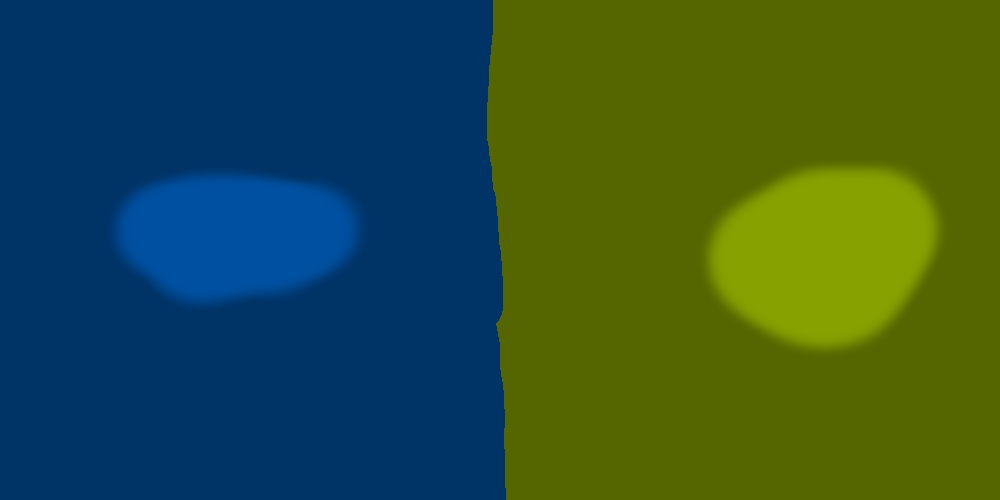
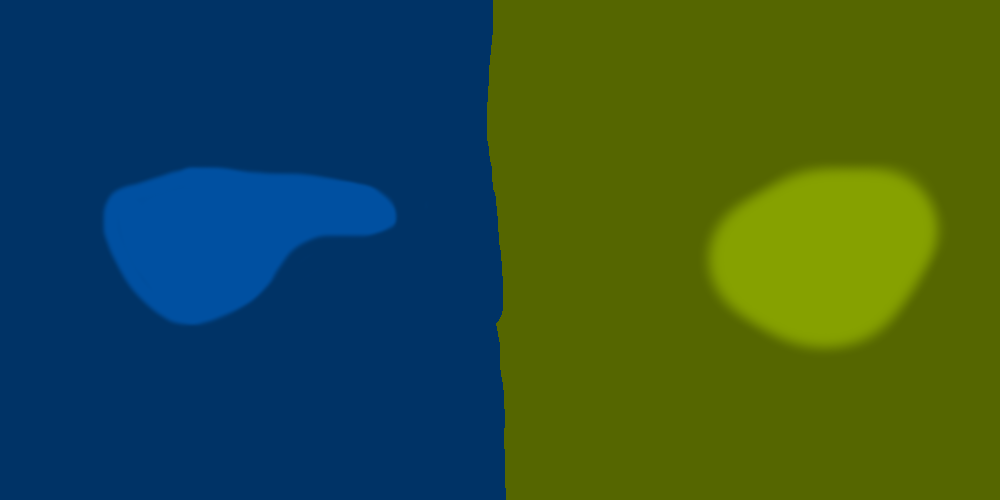
Add "continent buffer" to prevent continent subduction, tweak oceanic ridges
[#150886577]

Changed region(s): [[0.093, 0.33, 0.403, 0.66]]

diff --git a/js/plates-model/field.js b/js/plates-model/field.js
@@ -8,7 +8,8 @@ import VolcanicActivity from './volcanic-activity'
 import { basicDrag, orogenicDrag } from './physics/forces'
 import { serialize, deserialize } from '../utils'
 
-export const MAX_AGE = 0.03
+// Max age of the field defines how fast the new oceanic crust cools down and goes from ridge elevation to its base elevation.
+export const MAX_AGE = config.oceanicRidgeWidth / c.earthRadius
 // When a continent is splitting apart along divergent boundary, its crust will get thinner and thinner
 // until it reaches this value. Then the oceanic crust will be formed instead.
 export const MIN_CONTINENTAL_CRUST_THICKNESS = 0.45
@@ -37,7 +38,6 @@ export default class Field extends FieldBase {
     this.baseElevation = elevation || ELEVATION[type]
     this.baseCrustThickness = crustThickness || CRUST_THICKNESS[type]
 
-    this.island = false
     this.orogeny = null
     this.volcanicAct = null
     this.subduction = null
@@ -48,10 +48,14 @@ export default class Field extends FieldBase {
     // Physics properties:
     this.mass = this.area * MASS_MODIFIER * (this.isOcean ? config.oceanDensity : config.continentDensity)
     this.draggingPlate = null
+
+    // Properties that are (re)calculates in each step. They don't need to be serialized:
+    this.island = false
+    this.isContinentBuffer = false
   }
 
   get serializableProps () {
-    return [ 'id', 'boundary', 'age', 'isOcean', 'baseElevation', 'baseCrustThickness', 'island', 'noCollisionDist', 'mass' ]
+    return [ 'id', 'boundary', 'age', 'isOcean', 'baseElevation', 'baseCrustThickness', 'noCollisionDist', 'mass' ]
   }
 
   serialize () {
@@ -238,10 +242,14 @@ export default class Field extends FieldBase {
       return
     }
 
-    // Higher density plates subduct
     if (this.isOcean && this.density > field.density) {
+      // Higher density plates subduct.
       if (!this.subduction) {
         this.subduction = new Subduction(this)
+      }
+      if (this.isContinentBuffer && field.isOcean) {
+        // Special case when the continent is "trying" to subduct under the ocean. Apply drag force to stop both plates.
+        this.draggingPlate = field.plate
       }
       this.subduction.setCollision(field)
     } else if (this.island && this.density > field.density) {
@@ -251,6 +259,10 @@ export default class Field extends FieldBase {
         this.volcanicAct = new VolcanicActivity(this)
       }
       this.volcanicAct.setCollision(field)
+      if (this.isOcean && field.isContinentBuffer) {
+        // Special case when the continent is "trying" to subduct under the ocean. Apply drag force to stop both plates.
+        this.draggingPlate = field.plate
+      }
     } else if (this.isContinent && field.isContinent && !field.island) {
       this.draggingPlate = field.plate
       if (!this.orogeny) {
@@ -259,7 +271,7 @@ export default class Field extends FieldBase {
       this.orogeny.setCollision(field)
     } else if ((this.isContinent && !this.island && field.isOcean && this.density > field.density) ||
                (this.isOcean && field.isContinent && !field.island && this.density <= field.density)) {
-      // Special case when ocean "should" go over the continent. Apply drag force to stop both plates.
+      // Special case when the continent is "trying" to subduct under the ocean. Apply drag force to stop both plates.
       this.draggingPlate = field.plate
     }
   }

diff --git a/js/plates-view/render-cross-section.js b/js/plates-view/render-cross-section.js
@@ -64,9 +64,11 @@ function renderChunk (ctx, chunkData) {
     // Top of the crust
     const t1 = new THREE.Vector2(x1, f1.elevation)
     const t2 = new THREE.Vector2(x2, f2.elevation)
+    const tMid = new THREE.Vector2((t1.x + t2.x) / 2, (t1.y + t2.y) / 2)
     // Bottom of the crust, top of the lithosphere
     const c1 = new THREE.Vector2(x1, f1.elevation - f1.crustThickness)
     const c2 = new THREE.Vector2(x2, f2.elevation - f2.crustThickness)
+    const cMid = new THREE.Vector2((c1.x + c2.x) / 2, (c1.y + c2.y) / 2)
     // Bottom of the lithosphere, top of the mantle
     const l1 = new THREE.Vector2(x1, f1.elevation - f1.crustThickness - f1.lithosphereThickness)
     const l2 = new THREE.Vector2(x2, f2.elevation - f2.crustThickness - f2.lithosphereThickness)
@@ -74,7 +76,8 @@ function renderChunk (ctx, chunkData) {
     const b1 = new THREE.Vector2(x1, config.subductionMinElevation)
     const b2 = new THREE.Vector2(x2, config.subductionMinElevation)
     // Fill crust
-    fillPath(ctx, f1.isOcean && f2.isOcean ? OCEANIC_CRUST_COL : CONTINENTAL_CRUST_COL, t1, t2, c2, c1)
+    fillPath(ctx, f1.isOcean ? OCEANIC_CRUST_COL : CONTINENTAL_CRUST_COL, t1, tMid, cMid, c1)
+    fillPath(ctx, f2.isOcean ? OCEANIC_CRUST_COL : CONTINENTAL_CRUST_COL, tMid, t2, c2, cMid)
     // Fill lithosphere
     fillPath(ctx, LITHOSPHERE_COL, c1, c2, l2, l1)
     // Fill mantle

diff --git a/js/plates-model/plate.js b/js/plates-model/plate.js
@@ -185,6 +185,42 @@ export default class Plate extends PlateBase {
     return count
   }
 
+  calculateContinentBuffers () {
+    const queue = []
+    const dist = {}
+    const getDist = field => {
+      const id = field.id
+      if (dist[id] !== undefined) return dist[id]
+      return Infinity
+    }
+
+    this.forEachField(field => {
+      field.isContinentBuffer = false
+      if (field.isContinent && !field.island) {
+        field.forEachNeighbour(adjField => {
+          if (adjField.isOcean && getDist(adjField) > grid.fieldDiameterInKm) {
+            dist[adjField.id] = grid.fieldDiameterInKm
+            queue.push(adjField)
+          }
+        })
+      }
+    })
+
+    while (queue.length > 0) {
+      const field = queue.shift()
+      field.isContinentBuffer = true
+      const newDist = getDist(field) + grid.fieldDiameterInKm
+      if (newDist < config.continentBufferWidth) {
+        field.forEachNeighbour(adjField => {
+          if (adjField.isOcean && getDist(adjField) > newDist) {
+            dist[adjField.id] = newDist
+            queue.push(adjField)
+          }
+        })
+      }
+    }
+  }
+
   markIslands () {
     // DFS-based algorithm which calculates area of continents and mark small ones as islands.
     const stack = []

diff --git a/js/config.js b/js/config.js
@@ -47,10 +47,11 @@ const DEFAULT_CONFIG = {
   // Default range of elevation is [0, 1] (the deepest trench, the highest mountain). However subducting plates go
   // deeper and this variable sets the proportion between this depth and normal topography.
   subductionMinElevation: -3.3,
-  oceanicRidgeElevation: 0.45,
-  // Defines how fast fields are getting from age = 0 (oceanic ridge) to age = 1 (fully "mature" field).
-  // It affects elevation and crust thickness around oceanic ridge.
-  agingSpeed: 0.15,
+  oceanicRidgeElevation: 0.47,
+  oceanicRidgeWidth: 850, // km
+  // Width of the area around continent which acts as it's bumper / buffer. When this area is about to subduct,
+  // drag forces will be applied to stop relative motion of the plates and prevent subduction of the neighbouring continent.
+  continentBufferWidth: 750,
   // Rendering:
   colormap: 'topo', // 'topo' or 'plate'
   // Defines interaction that can be selected using top bar.

diff --git a/js/plates-model/grid.js b/js/plates-model/grid.js
@@ -3,6 +3,7 @@ import config from '../config'
 import VoronoiSphere from './voronoi-sphere'
 import { toCartesian } from '../geo-utils'
 import { kdTree } from 'kd-tree-javascript'
+import c from '../constants'
 
 // Overwrite constructor name, so standard-js doesn't print warnings...
 const KdTree = kdTree
@@ -21,6 +22,7 @@ class Grid {
     this.firstVertex = {}
     this.processFields()
     this.fieldDiameter = this.calcFieldDiameter()
+    this.fieldDiameterInKm = this.fieldDiameter * c.earthRadius
     // Note that kdTree will modify and reorder input array.
     this.kdTree = new KdTree(this.generateKDTreeNodes(), dist, ['x', 'y', 'z'])
     this.voronoiSphere = new VoronoiSphere(VORONOI_SPHERE_FIELDS_COUNT, this.kdTree)

diff --git a/js/plates-model/model-worker.js b/js/plates-model/model-worker.js
@@ -87,7 +87,7 @@ onmessage = function modelWorkerMsgHandler (event) {
     model.setDensities(data.densities)
   } else if (data.type === 'fieldInfo') {
     const pos = (new THREE.Vector3()).copy(data.props.position)
-    console.log(model.topFieldAt(pos).isContinentNeighbour())
+    console.log(model.topFieldAt(pos))
   } else if (data.type === 'drawContinent' || data.type === 'eraseContinent') {
     const pos = (new THREE.Vector3()).copy(data.props.position)
     const clickedField = model.topFieldAt(pos)

diff --git a/js/plates-model/model.js b/js/plates-model/model.js
@@ -151,6 +151,7 @@ export default class Model {
   simulatePlatesInteractions (timestep) {
     this.forEachField(field => field.resetCollisions())
     this.forEachPlate(plate => plate.markIslands())
+    this.forEachPlate(plate => plate.calculateContinentBuffers())
     this.detectCollisions()
     this.forEachField(field => field.performGeologicalProcesses(timestep))
     this.forEachPlate(plate => plate.removeUnnecessaryFields()) // e.g. fields that subducted

diff --git a/js/components/plates.js b/js/components/plates.js
@@ -483,7 +483,7 @@ export default class Plates extends PureComponent {
         }
         {
           stepsPerSecond > 0 &&
-          <div className='benchmark'>FPS: {stepsPerSecond.toFixed(2)}</div>
+          <div className='benchmark'>model steps per second: {stepsPerSecond.toFixed(2)}</div>
         }
         <div className='bottom-container'>
           <CrossSection data={crossSectionOutput} swapped={crossSectionSwapped} show={showCrossSectionView}
